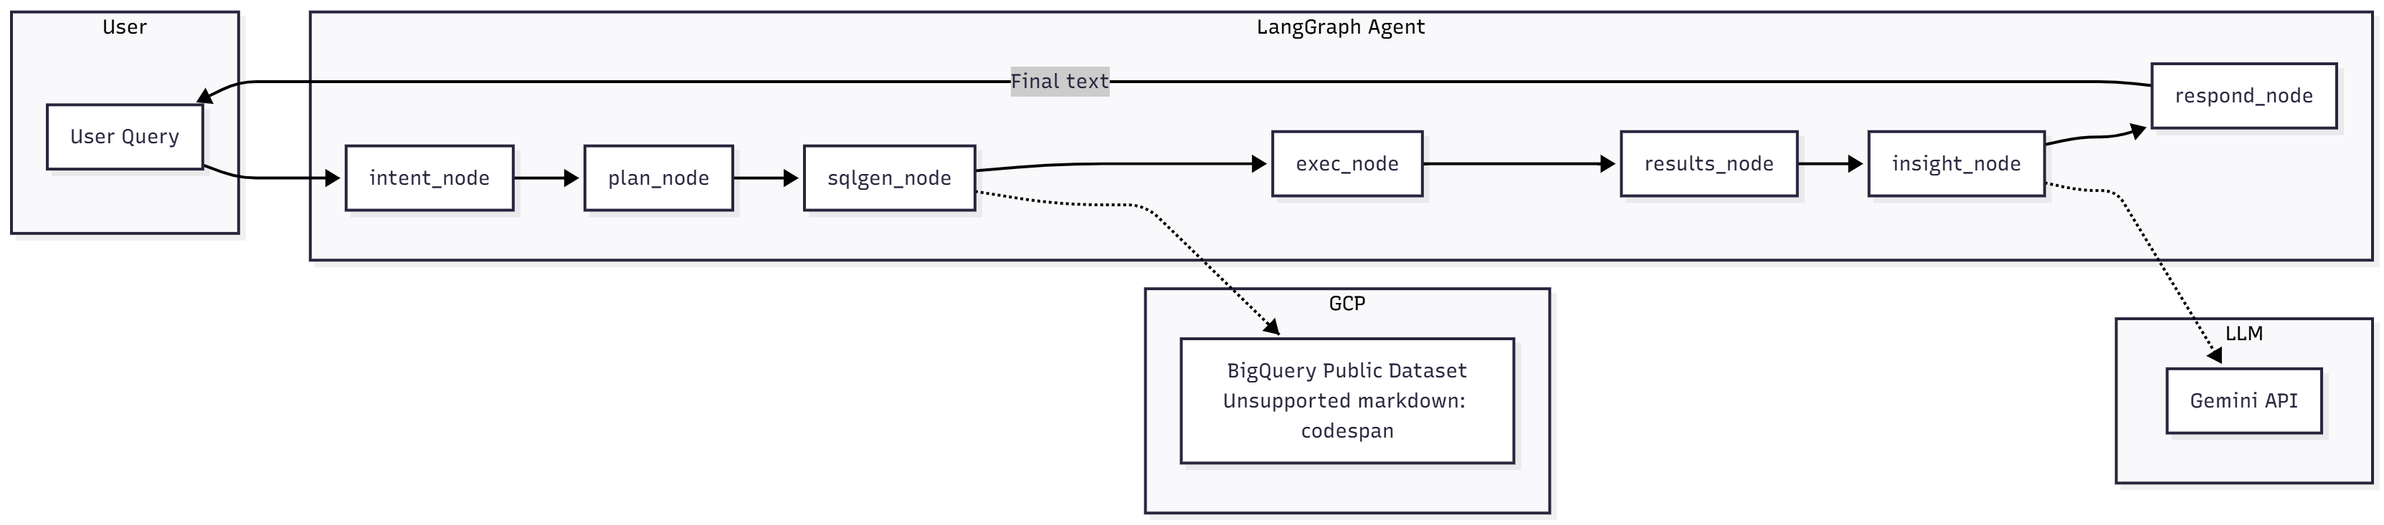
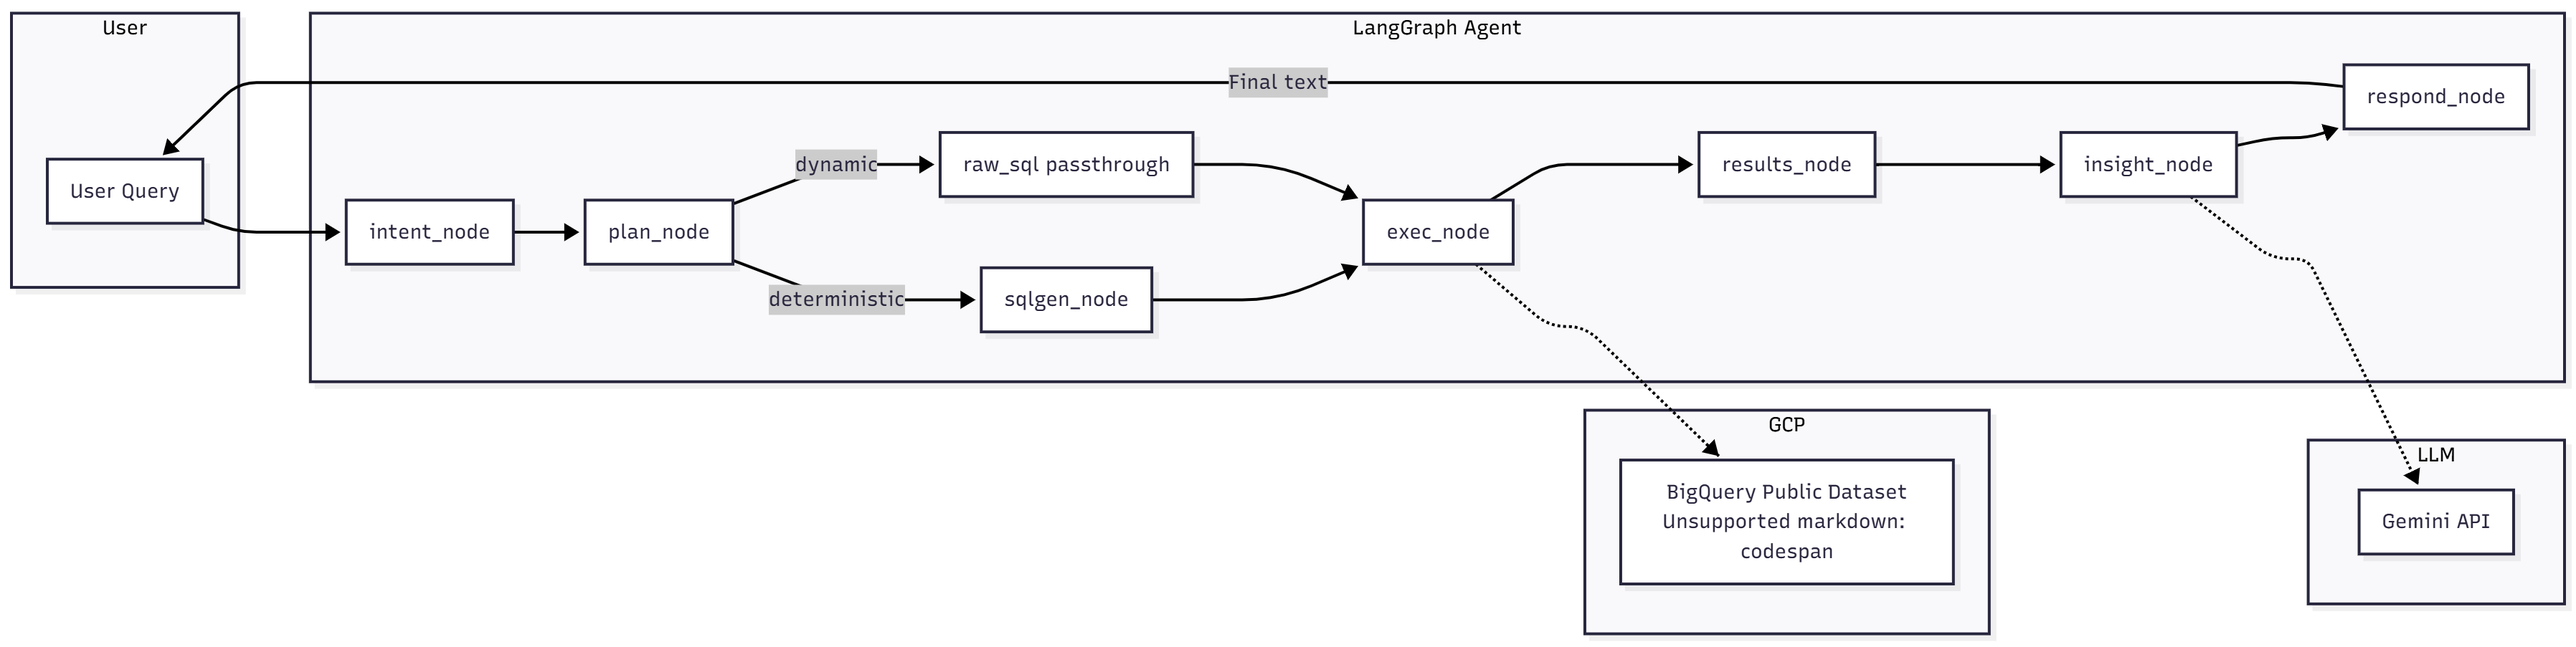
updated docs for dynamic mode

diff --git a/src/config.py b/src/config.py
@@ -7,7 +7,7 @@ load_dotenv()
 # Public config values your code will import
 GEMINI_API_KEY = os.getenv("GEMINI_API_KEY", "")
 GCP_PROJECT_ID = os.getenv("GCP_PROJECT_ID") or None
-GEMINI_MODEL = "gemini-2.5-pro"
+GEMINI_MODEL = "gemini-2.5-flash"
 # Can use gemini-2.5-pro assuming API KEY with usage allowance or flash for free one after creating one
 
 # Setting for either determinsitic node or dynamic using llm

diff --git a/README.md b/README.md
@@ -1,12 +1,28 @@
 # LangGraph E-commerce Analysis Agent
 
+### TL;DR — Quick Start
+1. `git clone <repo> && cd <repo>`  
+2. Copy `.env.example` → `.env`, add `GEMINI_API_KEY="your_key_here"`  
+3. `pip install -r requirements.txt`  
+4. Run: `python -m src.main` *(interactive)* or `python -m src.dev_run_scenarios` *(batch)*  
+5. In `src/config.py`, set model (e.g. `gemini-2.5-flash` or pro if api key usage permits) and `INTENT_MODE = "deterministic"` or `"dynamic"`  
+6. 📘 **See full architecture:** [docs/architecture.md](docs/architecture.md)
+**When to use each:**
+- Use **deterministic mode** for standard analytic questions (“top products”, “sales by country”, “monthly trend”).
+- Use **dynamic mode** for more open or composite requests that cross categories or logic (“show men’s outerwear sales in US and Canada”, “compare churn between new and returning users”).
+
+
 ## Overview
 This project implements a **CLI-based LangGraph agent** that analyzes the public e-commerce dataset **`bigquery-public-data.thelook_ecommerce`** and returns **business-grade insights**.  
 The agent turns a free-form question like:
 
 > “which countries bought the most last month?”
 
-into a deterministic pipeline:
+into a structured LangGraph pipeline that can run in two modes:
+
+- **Deterministic mode:** safe SQL templates with fixed parameters.  
+- **Dynamic mode:** LLM-generated SQL (Gemini JSON plan with guardrails).
+
 
 1. understand the intent (geo / product / trend / segment),
 2. pick a safe SQL template,
@@ -36,7 +52,7 @@ The goal is to show *agentic structure* (LangGraph), *safe data access* (templat
 ## Architecture (high level)
 The agent is built as a **deterministic LangGraph**:
 
-For a visual overview of the architecture, see [`docs/architecture.md`](docs/architecture.md) or open `docs/architecture.png`._
+For a visual overview of the architecture, see [`docs/architecture.md`](docs/architecture.md)
 
 ```mermaid
 flowchart TD
@@ -48,6 +64,22 @@ flowchart TD
     F --> G[insight_node (Gemini)]
     G --> H[respond_node]
 ```
+### Planning modes (deterministic vs dynamic)
+
+The agent now supports **two planning strategies**, controlled at runtime (e.g. via `INTENT_MODE` in `config.py`):
+
+1. **Deterministic (template-based)**  
+   - intent → known template (`q_top_products`, `q_geo_sales`, `q_sales_trend`, `q_customer_segments`)  
+   - safe, bounded SQL rendered from `src/sql_templates.py`  
+   - best for common reporting questions and for the original assignment requirements.
+
+2. **Dynamic (LLM-generated SQL)**  
+   - intent → `dynamic_plan(...)` → Gemini returns a JSON plan with `mode: "sql"` and a full SELECT  
+   - we run guardrails (must have `LIMIT`, must reference the 4 allowed tables, no DML)  
+   - if OK → we set `template_id="raw_sql"` and pass the SQL forward  
+   - if NOT OK → we fall back to the deterministic trend template (`q_sales_trend`) and mark `locked_template=true`.
+
+The rest of the graph (**sqlgen → exec → results → insight → respond**) stays the same in both modes. The only difference is **how** the SQL is decided in `plan_node`.
 
 **Node roles:**
 
@@ -118,7 +150,7 @@ A small **schema registry** is hardcoded in `src/schema.py` to describe these ta
    This sets up **ADC (Application Default Credentials)** which the BigQuery client in `src/bq.py` will use.
 3. **Gemini API key** (used in intent / plan / insight nodes):
     
-    use the .end.example file with an the googla api key (flash/pro) and save as .env
+    → use the .env.example file with your Google API key and save as .env
 
 ---
 
@@ -199,12 +231,15 @@ Key things you can control:
 
 1. **User input** → new `AgentState` is created.
 2. **intent_node** → Gemini classifies into 4 intents.
-3. **plan_node** → selects SQL template + params.
-4. **sqlgen_node** → renders SQL safely.
+3. **plan_node** → either:
+   - pick a deterministic SQL template + params, or
+   - call the dynamic planner (Gemini) to get guarded raw SQL (with fallback to trend).
+4. **sqlgen_node** → if we have a template, render it; if we already have `raw_sql`, just pass it through.
 5. **exec_node** → runs BigQuery and returns preview.
 6. **results_node** → computes aggregates (totals, shares).
 7. **insight_node** → Gemini transforms data into insights/actions/follow-ups.
 8. **respond_node** → prints CLI text.
+
 
 ---
 
@@ -239,11 +274,18 @@ Typical tests:
 ---
 
 ## Performance Notes
+Users or tests can switch between deterministic and dynamic planning by setting `INTENT_MODE` in `src/config.py`.
 
-From benchmark runs (~40s per full scenario):
-- ~80% time in LLM calls (plan + insight)
-- BigQuery queries are lightweight due to date filters & LIMIT
-- Architecture prioritizes correctness and explainability
+It also:
+- understands “last N days” and adjusts the date window,
+- detects YOY / “last year” wording and switches trend to a longer window,
+- can tag the “Outerwear & Coats” family if those words appear.
+
+- Planning now has 2 costs:
+  - deterministic plan is fast (pure Python rules);
+  - dynamic plan calls Gemini once and adds ~10–15s in our runs.
+- Dynamic is useful for “hard” queries (multi-filters, churnish logic), but we still keep a deterministic fallback (`q_sales_trend`) so the flow never breaks.
+- Exec + results + insight timing stays the same for both modes.
 
 ---
 
@@ -267,7 +309,7 @@ From benchmark runs (~40s per full scenario):
 6. Add more tools the agent cal call using functions not just SQL for complex predictions
  ### And also:
 7. Add more tests to improve coverage
-8. Add component testing for quality and enhance and optimize keywords in config fore more flexibilty in intent node keeping deterministic but flexible UX
+8. Add component tests and optimize config keywords for more flexibility.
 
 ---
 

diff --git a/docs/architecture.md b/docs/architecture.md
@@ -12,8 +12,10 @@ The LangGraph E-commerce Agent converts a natural-language business query into s
 
 **LangGraph Agent**
 - **intent_node** – Classifies the question (product / geo / segment / trend).
-- **plan_node** – Chooses the right SQL template and parameters.
-- **sqlgen_node** – Builds safe parameterized SQL.
+- **plan_node** – Chooses **how** to build the query:
+  - in deterministic mode it selects a known SQL template and parameters;
+  - in dynamic mode it asks Gemini for a JSON plan and produces guarded `raw_sql` (with fallback to trend).
+- **sqlgen_node** – For deterministic plans, builds safe parameterized SQL from the chosen template. For dynamic plans, passes through the validated raw SQL.
 - **exec_node** – Executes queries on BigQuery.
 - **results_node** – Computes light aggregates (shares, totals).
 - **insight_node** – Calls Gemini to translate numbers into insights.
@@ -21,29 +23,36 @@ The LangGraph E-commerce Agent converts a natural-language business query into s
 
 **External Integrations**
 - **BigQuery** – Public dataset `bigquery-public-data.thelook_ecommerce`.
-- **Gemini API** – Used for intent classification, planning, and insight generation.
+- **Gemini API** – Used for intent classification, dynamic planning, and insight generation.
 
 ## Data Flow Summary
 
 1. User enters a question in CLI.  
 2. LangGraph processes it through the 7 nodes.  
-3. BigQuery returns structured results.  
-4. Gemini adds analytical interpretation.  
-5. CLI outputs insights + recommendations.
+3. At the planning step, the agent runs **either** deterministic planning (template) **or** dynamic planning (LLM JSON → raw SQL with guardrails).  
+4. BigQuery returns structured results.  
+5. Gemini adds analytical interpretation.  
+6. CLI outputs insights + recommendations.
 
 ## Request Sequence (detailed)
 
-The following sequence diagram shows how a single CLI question is processed end-to-end.
+The following sequence diagram shows the **deterministic** path end-to-end.
 
 <p align="center">
-  <img src="sequence.png" alt="Request Sequence Diagram" width="600"/>
+  <img src="sequence_det.png" alt="Deterministic Request Sequence" width="600"/>
   <br>
-  <em>Request Sequence (scaled view)</em>
+  <em>Deterministic planning – template-based</em>
 </p>
 
+For the **dynamic** path, planning first calls Gemini to get a SQL plan and only then continues with the same downstream nodes.
 
+<p align="center">
+  <img src="sequence_dyn.png" alt="Dynamic Request Sequence" width="600"/>
+  <br>
+  <em>Dynamic planning – Gemini JSON → guarded raw SQL</em>
+</p>
 
 ## Notes
-- The agent uses deterministic graph flow (no arbitrary agent jumps).  
-- SQL templates and model names are configurable in `config.py`.  
-- This diagram aligns with the flow shown in the README's Mermaid snippet.
+- The agent still uses a fixed, deterministic **graph** (no arbitrary agent jumps); only the **planning logic** switches between deterministic and dynamic.
+- SQL templates, allowed tables, and model names are configurable in `config.py`.
+- The diagrams above align with the flow shown in the README’s Mermaid snippet.
